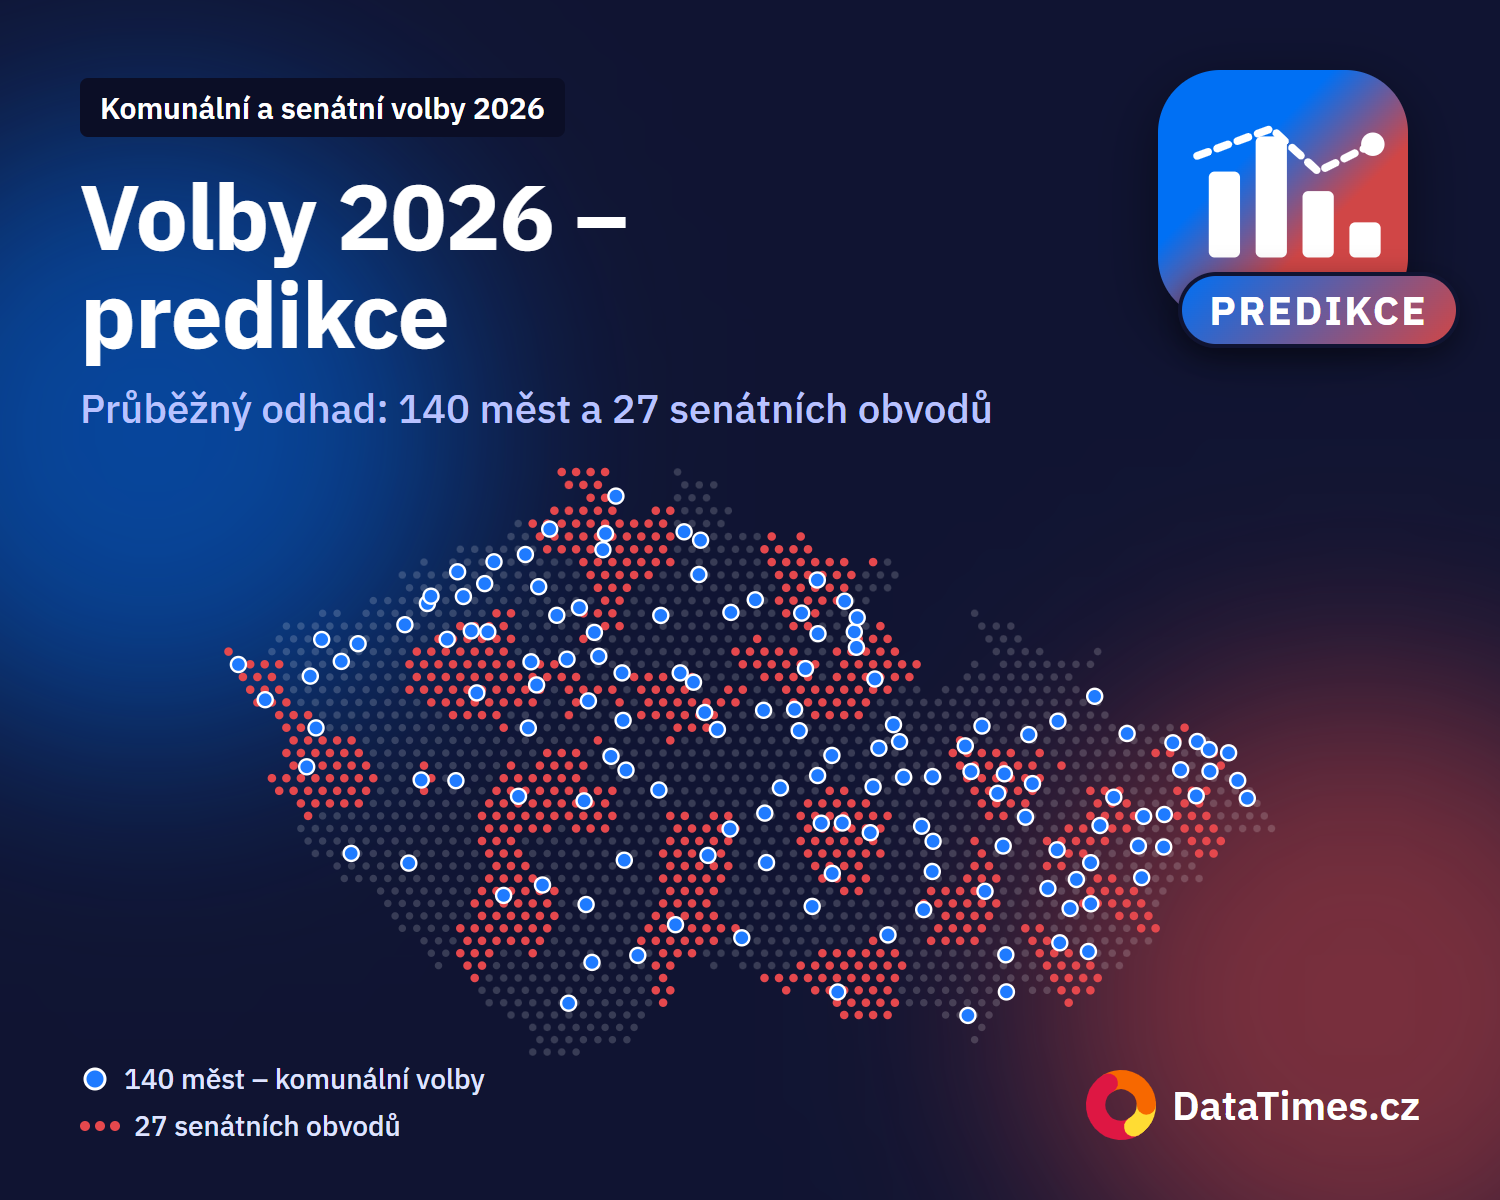
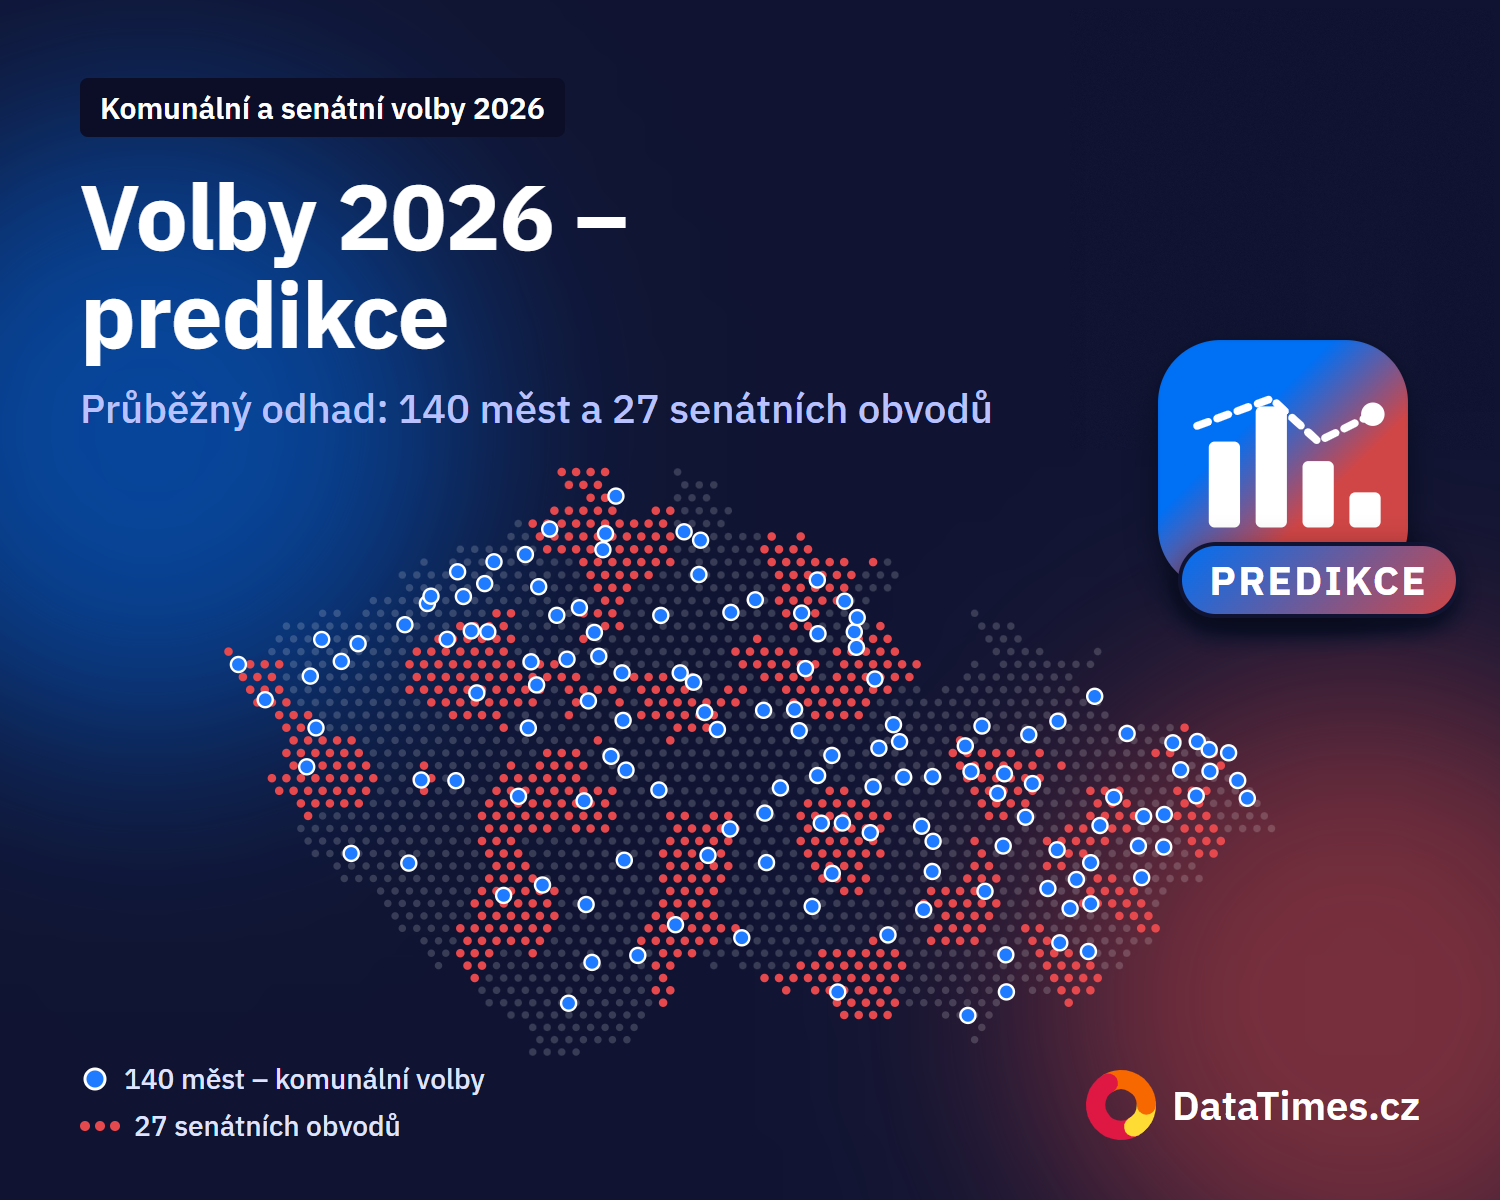
design(covery volby 2026): ikona kalkulačky a predikce posunuta pod štítek rubriky; pravidlo volné zóny štítku (x ≥ 950, y ≤ 280) a kotev textu/loga v metodice i promptu pro Michala

Changed region(s): [[0.7667, 0.0308, 0.9813, 0.555]]

diff --git a/tools/PROMPT-COVER-PRO-MICHALA.md b/tools/PROMPT-COVER-PRO-MICHALA.md
@@ -44,7 +44,14 @@ Než začneš, přečti a dodržuj:
    - každá nová série článků (predikce × výsledky × analýza) má odlišnou převládající barvu, ať se covery neopakují
 
 4. FORMÁTY – vždy všech pět, z jedné šablony (viz tools/COVER-EDITOR.md, „Sada pro web a sociální sítě“)
-   - cover-homepage.png 1500×1200: text a logo uvnitř x 180–1320, y 120–1080; pravý horní roh volný (štítek rubriky)
+   - cover-homepage.png 1500×1200: text a logo uvnitř x 180–1320, y 120–1080
+     ŠTÍTEK RUBRIKY: web na každou kartu vkládá vpravo nahoře červený oválek s rubrikou (VOLBY, ANALÝZA…).
+     V malých kartách zabírá na coveru oblast x ≥ 950, y ≤ 280 (delší štítek až od x ≈ 760).
+     Tahle oblast musí být PRÁZDNÁ – žádná ikona, odznak, číslo, logo ani konec titulku.
+     Ikonky a odznaky (např. ikona kalkulačky, „PREDIKCE“, „20 let“) dej pod ni, nejdřív od y ≈ 320.
+   - KOTVY, aby covery lícovaly v řadě vedle sebe: text začíná vždy na x 180, y 120 (zrcadlově končí na x 1320,
+     když je motiv vlevo); logo DataTimes.cz vždy pravý dolní roh zóny (pravý okraj 1320, spodek 1080).
+     Žádné vlastní odsazení „pro jistotu“ – karty webu drží přesně 5:4, nic víc se neořezává.
    - cover-og.jpg 1200×630: titulek a logo ve STŘEDNÍM ČTVERCI 630×630 (WhatsApp, Bluesky, Messenger ho ořízne),
      motiv může vyplnit kraje; velké písmo (náhled na WhatsAppu má ~100 px); JPEG do 300 kB
    - cover-square.png 1080×1080, cover-instagram.png 1080×1350 (nic důležitého v horních/dolních 80 px),
@@ -54,7 +61,8 @@ Než začneš, přečti a dodržuj:
 5. KONTROLA – než mi to ukážeš
    - vyrenderuj kontrolní list ořezů (jako nahledy.cjs): homepage velká karta, postranní karta (čtverec), mobil 45 %,
      související 120×96, OG + jeho čtvercový ořez, IG 3:4, stories se zónami
-   - zkontroluj: čte se titulek i na náhledu 120×96? nic důležitého není oříznuté? barvy jsou přesně z palety?
+   - zkontroluj: čte se titulek i na náhledu 120×96? nic důležitého není oříznuté? nic nezasahuje pod štítek
+     rubriky (x ≥ 950, y ≤ 280)? začíná text a sedí logo na stejných kotvách jako u ostatních coverů? barvy jsou přesně z palety?
      sedí čísla s článkem? velikost OG ≤ 300 kB?
    - pošli mi kontrolní list a všech pět souborů; frontmatter:
      coverImage + homepageImage: images/cover-homepage.png, ogImage: images/cover-og.jpg, squareImage: images/cover-square.png

diff --git a/tools/COVER-EDITOR.md b/tools/COVER-EDITOR.md
@@ -20,15 +20,17 @@ okraje smí přesahovat jen dekorace (mapa, fotka).
 
 | Soubor | Rozměry | Kde se použije | Bezpečná zóna (text, logo) |
 | --- | --- | --- | --- |
-| cover-homepage | 1500 × 1200 (5:4) | `homepageImage` + `coverImage`: všechny karty webu | x 180–1320, y 120–1080; **pravý horní roh volný** (štítek rubriky) |
+| cover-homepage | 1500 × 1200 (5:4) | `homepageImage` + `coverImage`: všechny karty webu | x 180–1320, y 120–1080; **oblast x ≥ 950, y ≤ 280 prázdná** (štítek rubriky, delší až od x ≈ 760); text začíná na x 180 / y 120, logo pravý dolní roh zóny |
 | cover-og (JPEG, **do 300 kB** – větší WhatsApp nenačte) | 1200 × 630 | `ogImage`: odkaz na Facebooku, X, LinkedInu, Bluesky, WhatsAppu | **střední čtverec** 630 × 630 (WhatsApp a messengery ořezávají na čtverec); velké písmo, náhled na WhatsAppu má ~100 px |
 | cover-square | 1080 × 1080 | `squareImage`: ruční sdílení obrázku (Bluesky, WhatsApp) | okraj 70 px |
 | cover-instagram | 1080 × 1350 (4:5) | Instagram feed (nahrává se ručně) | nic důležitého v horních a dolních 80 px (mřížka profilu ořízne na 3:4) |
 | cover-story | 1080 × 1920 (9:16) | Instagram stories (nahrává se ručně) | horních 250 px a dolních 340 px překrývá rozhraní aplikace |
 
-Proč postranní karty: homepage ukazuje `homepageImage` všude ve 5:4, jen tři postranní karty
-u hlavního článku ho oříznou na střed až na čtverec (a mezi 481–767 px na šířku). Proto
-zóna 180–1320 px. Odkaz na síti vždy přebírá jeden `ogImage`; web nepozná, kam se sdílí
+Všechny karty webu včetně tří postranních u hlavního článku drží náhled přesně 5:4 (od 12. 10. 2026;
+dřív se postranní karty ořezávaly až na čtverec, proto mají starší covery text posunutý doprostřed –
+Bolsonaro). Na každou kartu web vkládá vpravo nahoře štítek rubriky: v malých kartách (boční 230 px,
+mobilní seznam) zakryje na coveru oblast x ≥ 950, y ≤ 280. Ikony a odznaky coveru patří pod ni.
+Stejné kotvy (text od x 180 / y 120, logo vpravo dole) drží covery v řadě vedle sebe zarovnané. Odkaz na síti vždy přebírá jeden `ogImage`; web nepozná, kam se sdílí
 (statický web na Cloudflare Pages), proto má OG text uprostřed.
 
 Vzor generátoru pro grafické (ne fotografické) covery a kontrolní list ořezů:
